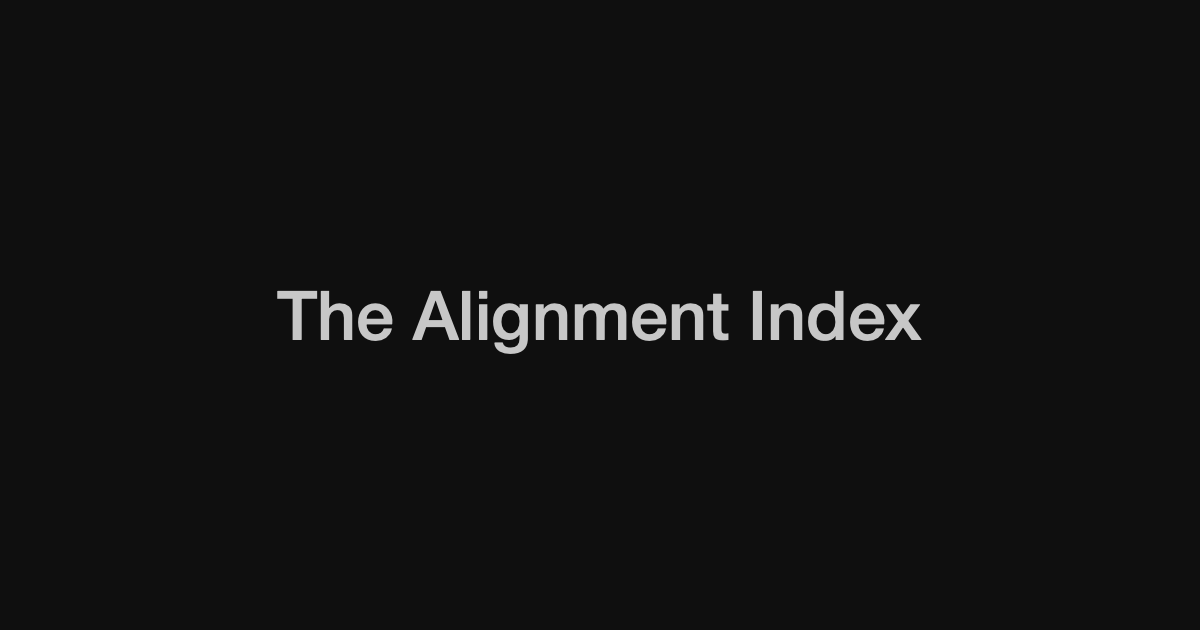
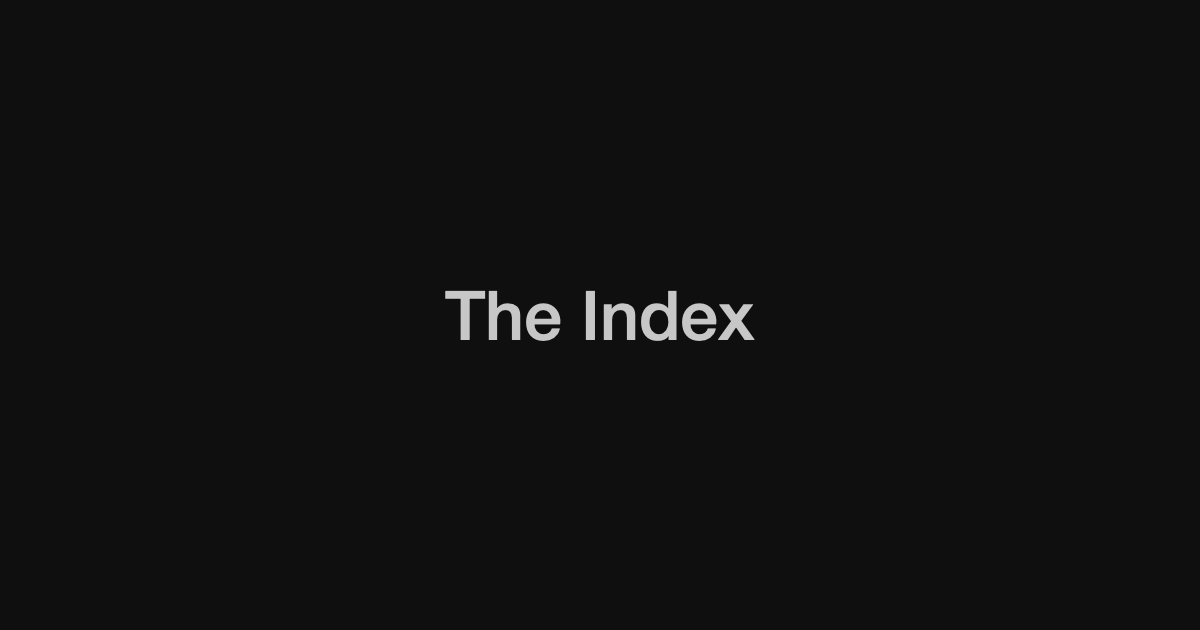
Rename to The Index; wordmark up to 36px

Changed region(s): [[0.2158, 0.4524, 0.7708, 0.573]]

diff --git a/index.html b/index.html
@@ -8,16 +8,16 @@
   <meta name="color-scheme" content="light dark">
   <meta name="theme-color" content="#ffffff" media="(prefers-color-scheme: light)">
   <meta name="theme-color" content="#0f0f0f" media="(prefers-color-scheme: dark)">
-  <title>The Alignment Index</title>
-  <meta name="description" content="A plain-language index of AI alignment topics and misalignment incidents. Coming soon.">
-  <meta property="og:title" content="The Alignment Index">
-  <meta property="og:description" content="A plain-language index of AI alignment topics and misalignment incidents. Coming soon.">
+  <title>The Index</title>
+  <meta name="description" content="A plain-language index of AI topics and incidents. Coming soon.">
+  <meta property="og:title" content="The Index">
+  <meta property="og:description" content="A plain-language index of AI topics and incidents. Coming soon.">
   <meta property="og:type" content="website">
   <meta property="og:url" content="https://thealignmentindex.org/">
   <meta property="og:image" content="https://thealignmentindex.org/og-image.png">
   <meta property="og:image:width" content="1200">
   <meta property="og:image:height" content="630">
-  <meta property="og:image:alt" content="The Alignment Index">
+  <meta property="og:image:alt" content="The Index">
   <meta name="twitter:card" content="summary_large_image">
   <link rel="canonical" href="https://thealignmentindex.org/">
   <!-- PNG first, SVG after: SVG-capable browsers prefer it (and get the
@@ -91,7 +91,7 @@
     }
 
     .wordmark {
-      font-size: 24px; /* text-2xl */
+      font-size: 36px; /* text-4xl */
       font-weight: 500;
       color: var(--n600);
       margin: 0 0 16px;
@@ -257,7 +257,7 @@
   </style>
 </head>
 <body data-state="rest">
-  <h1 class="wordmark">The Alignment Index</h1>
+  <h1 class="wordmark">The Index</h1>
 
   <button type="button" class="join" id="join-button">Get updates</button>
   <form class="newsletter-form" id="newsletter-form" autocomplete="off" novalidate>

diff --git a/404.html b/404.html
@@ -7,7 +7,7 @@
   <meta name="theme-color" content="#ffffff" media="(prefers-color-scheme: light)">
   <meta name="theme-color" content="#0f0f0f" media="(prefers-color-scheme: dark)">
   <meta name="robots" content="noindex">
-  <title>Page not found · The Alignment Index</title>
+  <title>Page not found · The Index</title>
   <link rel="icon" type="image/png" sizes="32x32" href="/favicon-32.png">
   <link rel="icon" type="image/svg+xml" href="/favicon.svg">
   <link rel="apple-touch-icon" href="/apple-touch-icon.png">

diff --git a/README.md b/README.md
@@ -1,6 +1,6 @@
 # thealignmentindex.org — coming soon
 
-Static holding page for The Alignment Index. One interactive page
+Static holding page for The Index. One interactive page
 (`index.html`), a 404, and generated brand assets. No build step, no
 dependencies.
 
